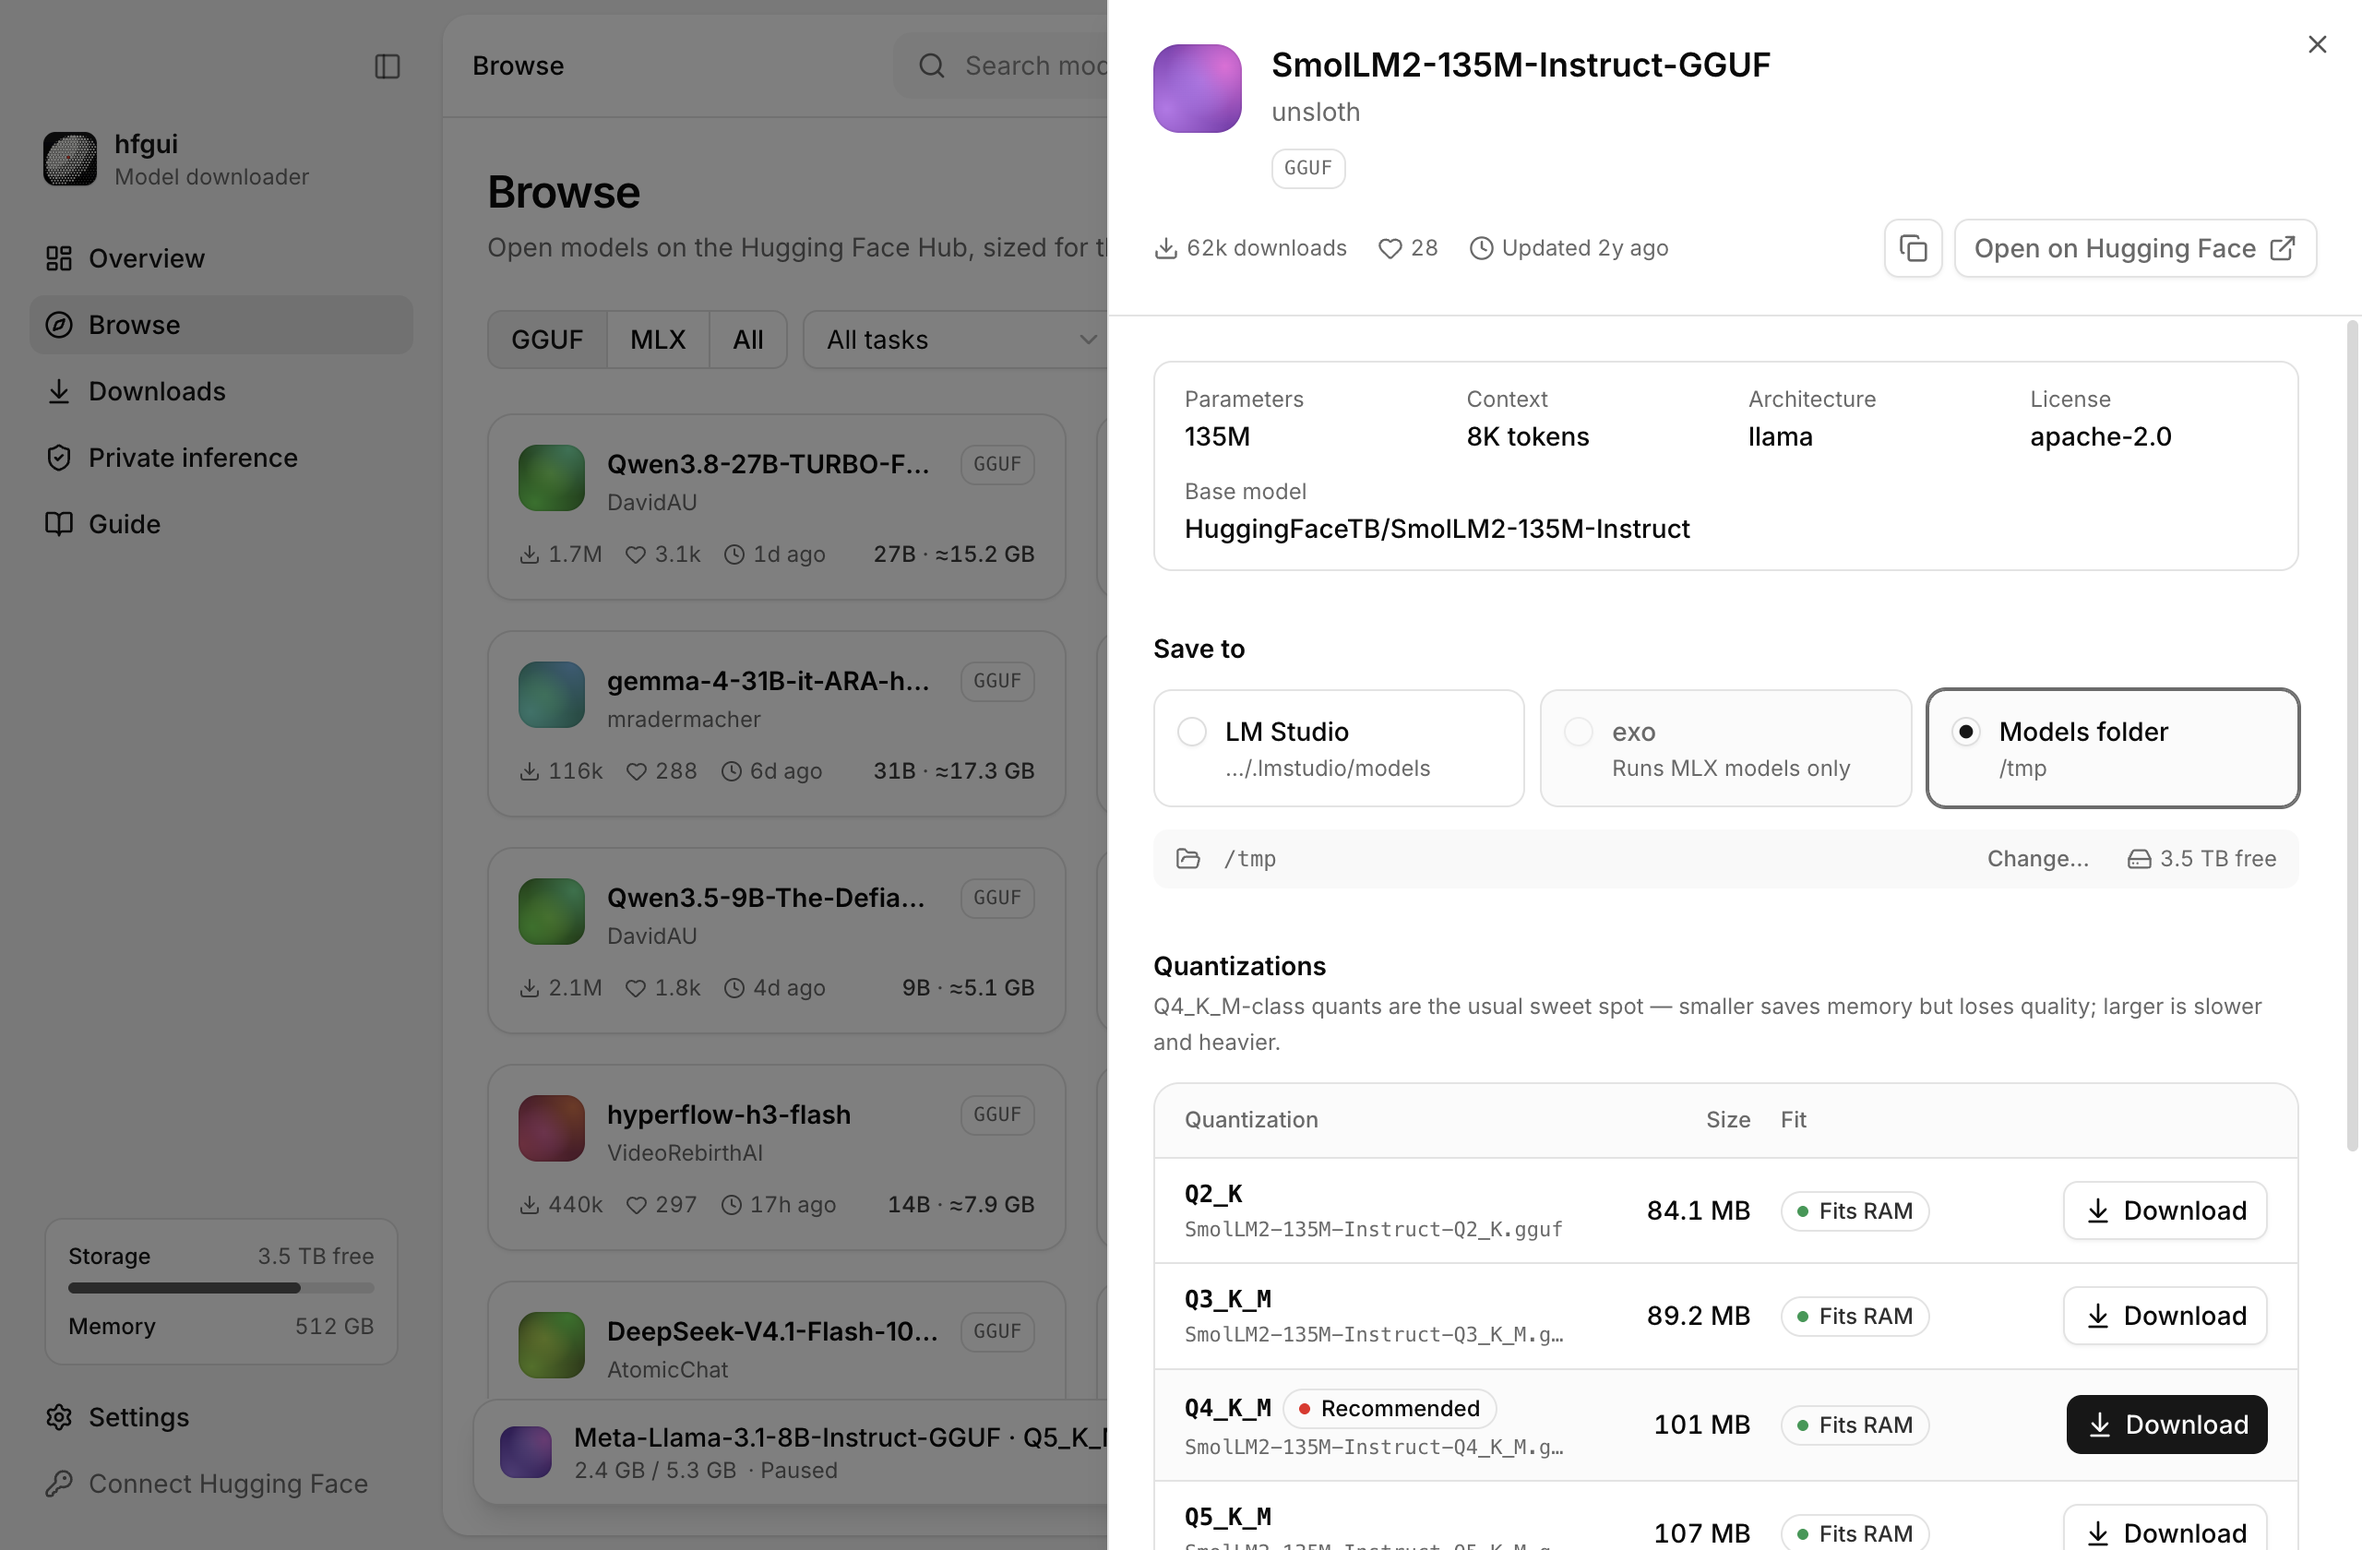
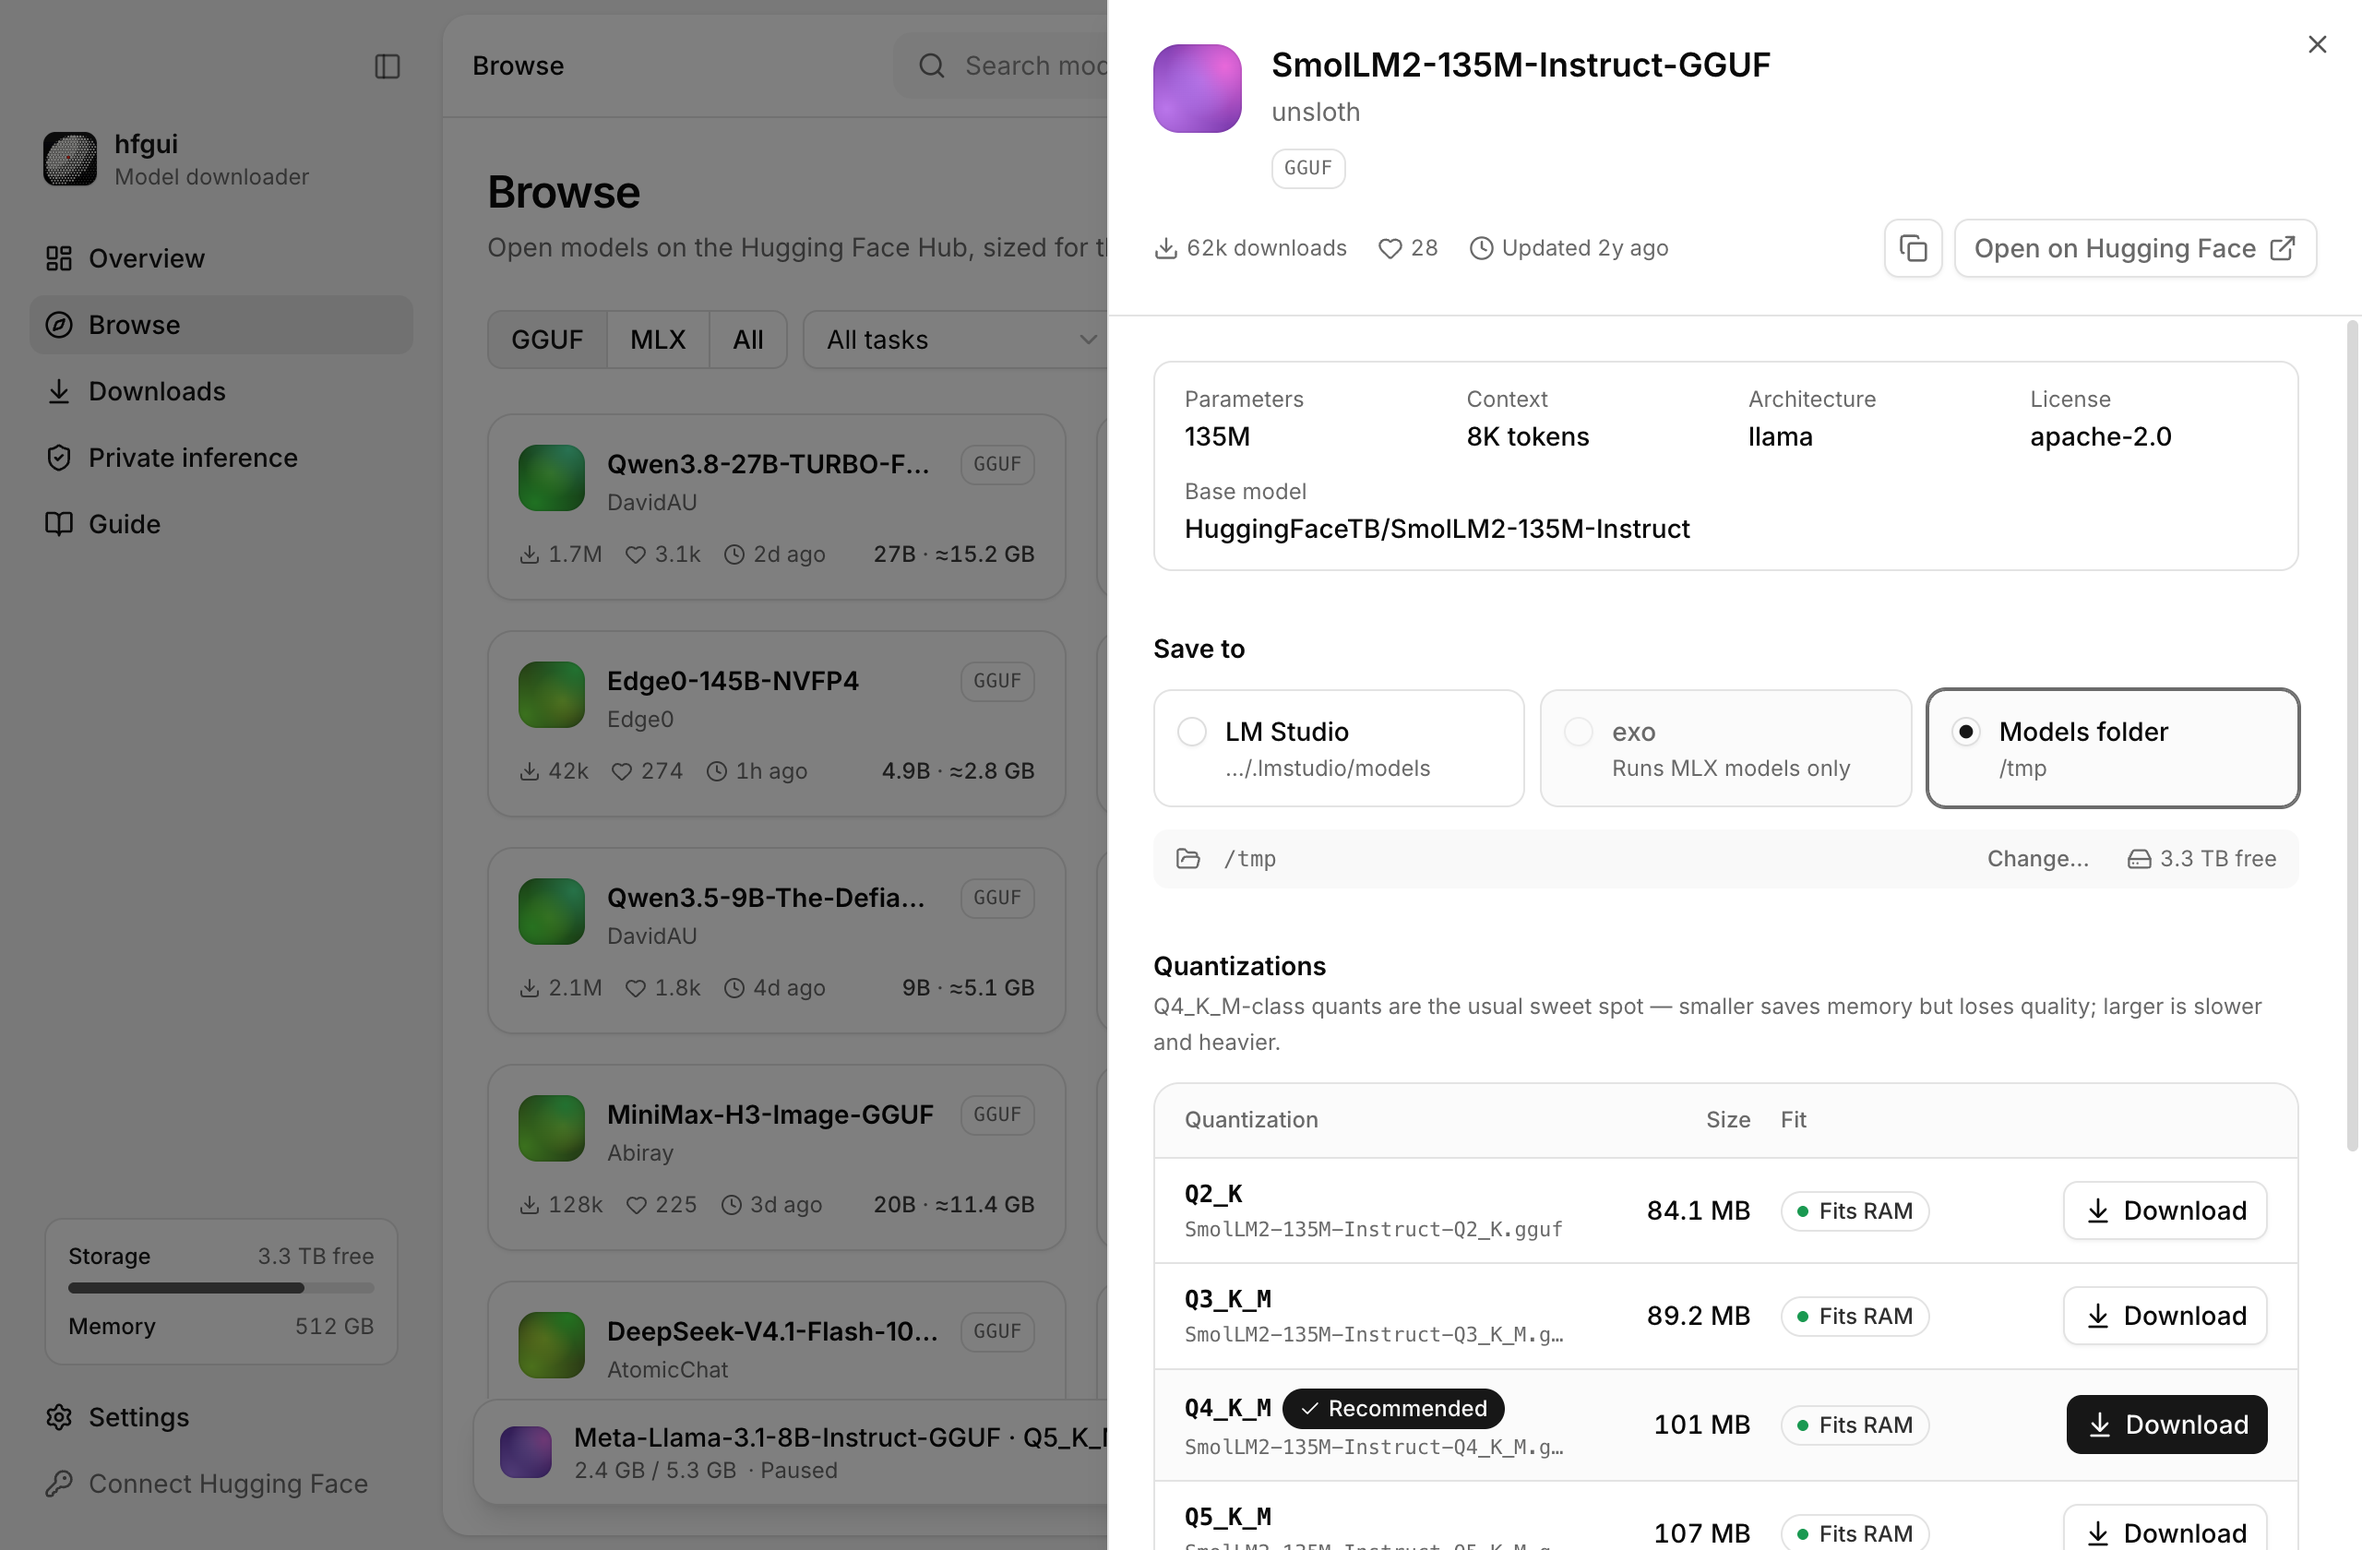
Screenshots: 2x always, finished models with their files; new colours
screenshot.mjs forces a device scale factor of 2, so docs images stay sharp
when the attached display (or a screen-sharing session) is 1x, and gives
seeded finished downloads sparse placeholder files, so the library check
doesn't show them as "Files missing". README describes the status colours.

diff --git a/README.md b/README.md
@@ -85,9 +85,11 @@ your choice, or straight into **LM Studio** and **exo** if you use them.
 
 A monochrome dashboard built on [shadcn/ui](https://ui.shadcn.com) — inset sidebar, page
 headers, cards and index tables — in light and dark (System / Light / Dark in Settings).
-There is exactly one accent, a signal red, and it only ever means *live*: running
-downloads, the in-progress count, and the quant hfgui recommends. Statuses are outline
-pills with a coloured dot.
+Status colours mean what people expect: green is all good (and going, when the dot
+pulses), amber needs attention (paused, stalled, files missing), red is a problem that
+stopped a download, and grey is waiting or your own doing (queued, cancelled). Progress bars
+use the same colour as their status. The signal red of the logo is a brand colour, never a
+status. Statuses are outline pills with a coloured dot.
 
 Every model gets a deterministic gradient avatar derived from its repo id, with the hue
 family coming from the author, so a repo always looks the same and a page of results from
